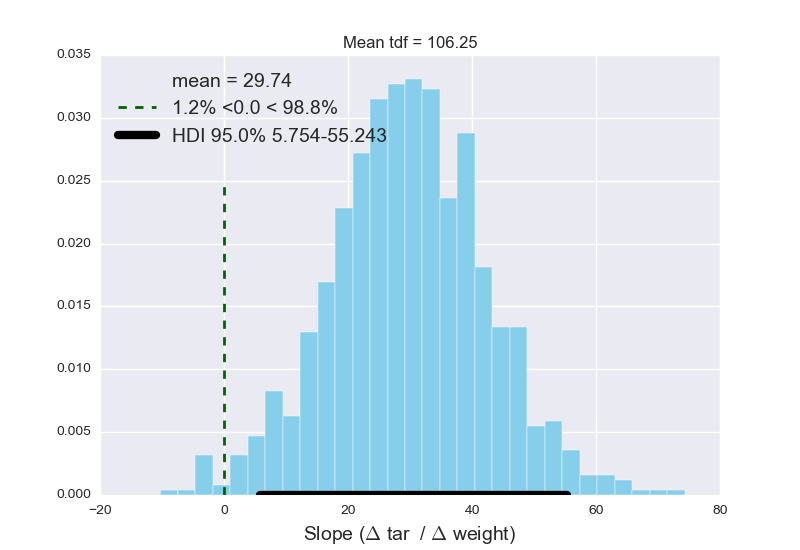
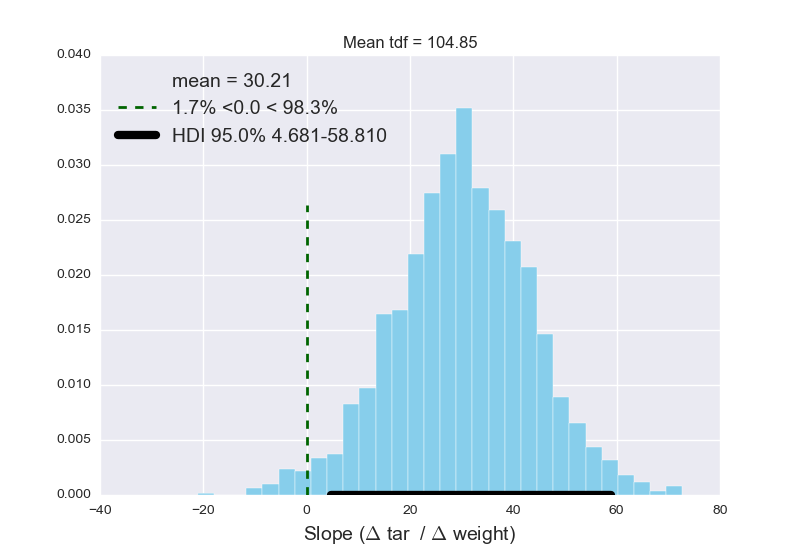
update

diff --git a/16_SimpleRobustLinearRegressionPyMC.py b/16_SimpleRobustLinearRegressionPyMC.py
@@ -4,7 +4,7 @@ Simple Robust Linear Regression
 from __future__ import division
 import numpy as np
 import pymc as pm
-from scipy.stats import t
+from scipy.stats import t, norm
 from scipy.interpolate import spline
 import matplotlib.pyplot as plt
 from plot_post import plot_post
@@ -30,7 +30,7 @@ y_sd = np.std(y)
 zx = (x - x_m) / x_sd
 zy = (y - y_m) / y_sd
 
-tdf_gain = 100 # 1 for low-baised tdf, 100 for high-biased tdf
+tdf_gain = 1 # 1 for low-baised tdf, 100 for high-biased tdf
 
 # THE MODEL
 with pm.Model() as model:
@@ -46,7 +46,7 @@ with pm.Model() as model:
     # Generate a MCMC chain
     start = pm.find_MAP()
     step = [pm.Metropolis([rv]) for rv in model.unobserved_RVs]
-    trace = pm.sample(10000, step, start, progressbar=False)
+    trace = pm.sample(20000, step, start, progressbar=False)
 
 
 # EXAMINE THE RESULTS
@@ -100,7 +100,7 @@ y_HDI_lim = np.zeros((len(x_post_pred), 2))
 for chain_idx in range(post_samp_size):
     y_post_pred[:,chain_idx] = t.rvs(df=np.repeat([tdf_samp[chain_idx]], [len(x_post_pred)]),
                             loc = b0[chain_idx] + b1[chain_idx] * x_post_pred,
-                            scale = np.repeat([sigma[chain_idx]], [len(x_post_pred)]), size=len(x_post_pred))
+                            scale = np.repeat([sigma[chain_idx]], [len(x_post_pred)]))
 
 for x_idx in range(len(x_post_pred)):
     y_HDI_lim[x_idx] = hpd(y_post_pred[x_idx])
@@ -119,14 +119,14 @@ plt.figure()
 plot_post(b1, xlab=r'Slope ($\Delta$ tar  / $\Delta$ weight)', comp_val=0.0,
             show_mode=False, bins=30)
 plt.title('Mean tdf = %.2f' % tdf_m)
-plt.savefig('Figure_16.8a.png')
+plt.savefig('Figure_16.8b.png')
 
 # Display data with believable regression lines and posterior predictions.
 plt.figure()
 plt.plot(x, y, 'k.')
 plt.title('Data with credible regression lines')
-plt.xlabel('tar')
-plt.ylabel('weight')
+plt.xlabel('weight')
+plt.ylabel('tar')
 plt.xlim(x_lim)
 plt.ylim(y_lim)
 # Superimpose a smattering of believable regression lines:
@@ -134,17 +134,15 @@ for i in range(0, len(b0), 5):
     plt.plot(x, b0[i] + b1[i]*x  , c='k', alpha=0.05 )
 plt.savefig('Figure_16.8x1.png')
 
-# FIXME this figure does not agree with the one in the book, and also does not
-# makes sense with the results of the previous figure. It seems that I am making
-# a mistake when computing the y_post_pred values
+
 plt.figure()
 # Plot data values:
 plt.plot(x, y, 'k.')
 plt.xlim(x_lim)
 plt.ylim(y_lim)
-plt.xlabel('tar')
-plt.ylabel('weight')
-plt.title('Data with 95% HDI & Mean of Posterior Predictions (FIXME!)')
+plt.xlabel('weight')
+plt.ylabel('tar')
+plt.title('Data with 95% HDI & Mean of Posterior Predictions')
 # Superimpose posterior predicted 95% HDIs:
 y_post_pred_med = np.median(y_post_pred, axis=1)
 
@@ -159,7 +157,7 @@ y_HDI_lim_smooth = spline(x_post_pred, y_HDI_lim, x_new)
 plt.plot(x_post_pred, y_post_pred_med)
 plt.fill_between(x_new, y_HDI_lim_smooth[:,0], y_HDI_lim_smooth[:,1], alpha=0.3)
 
-plt.savefig('Figure_16.8c.png')
+plt.savefig('Figure_16.8d.png')
 
 plt.show()
 
